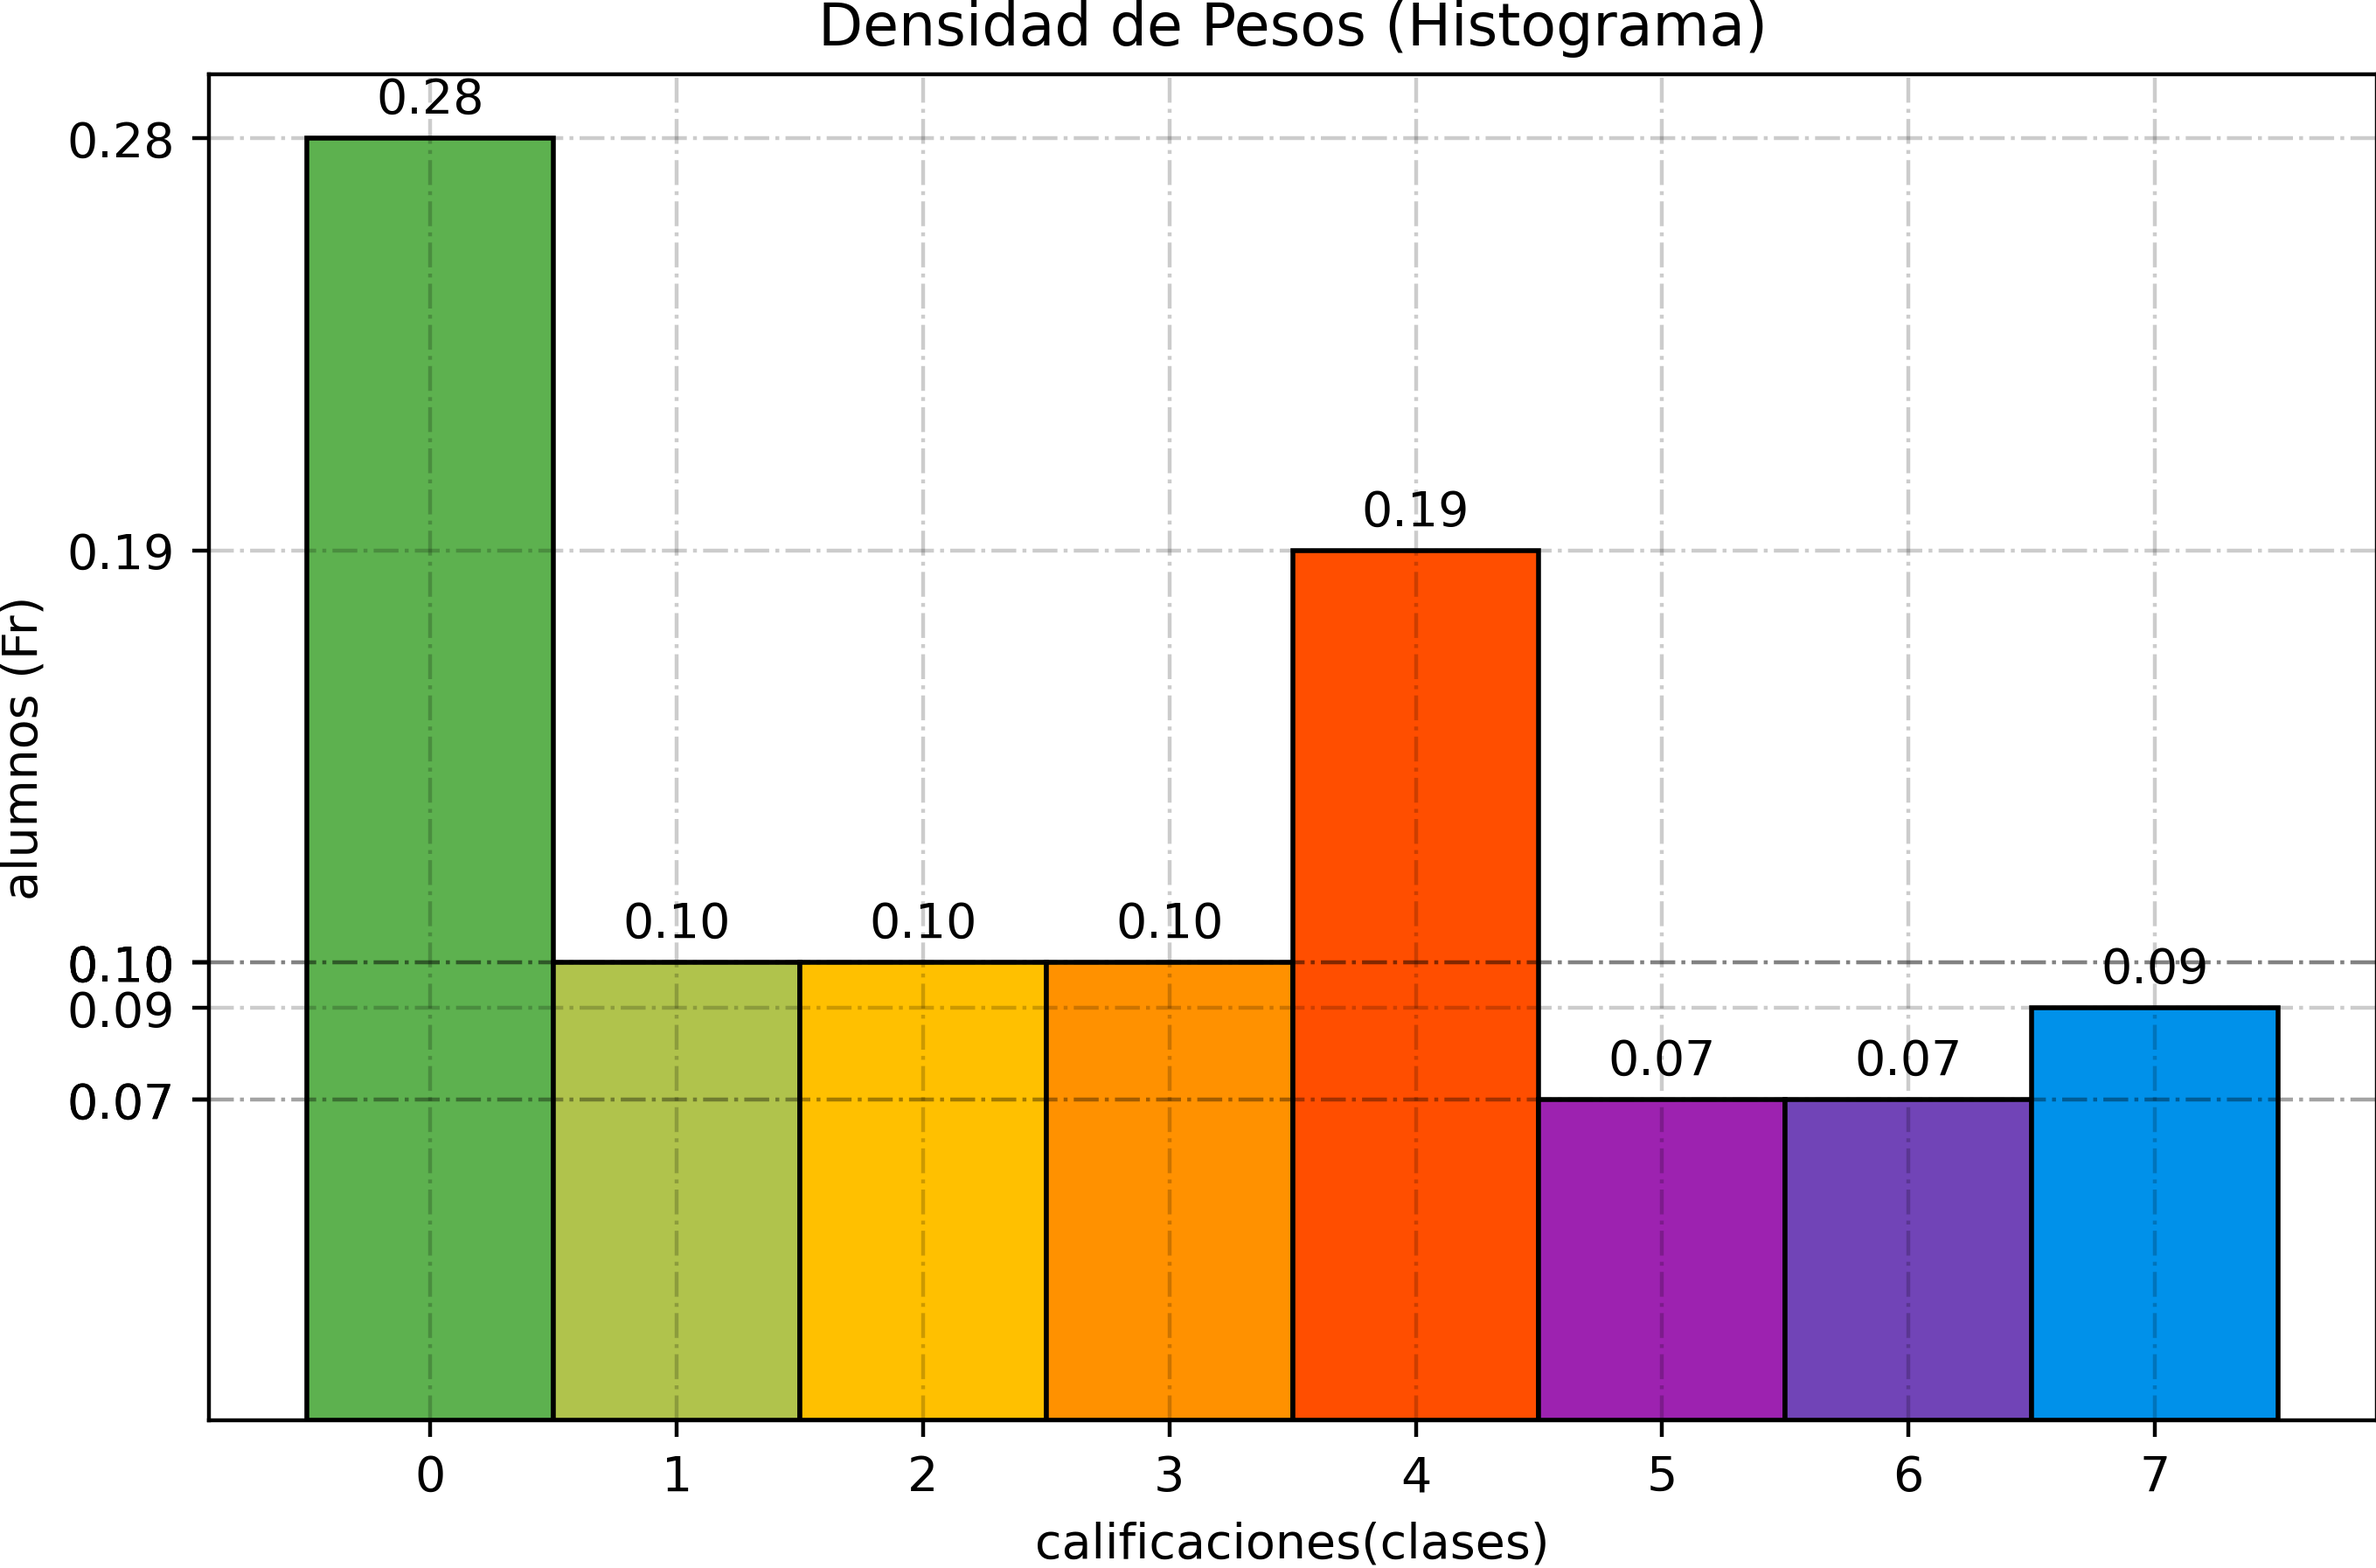
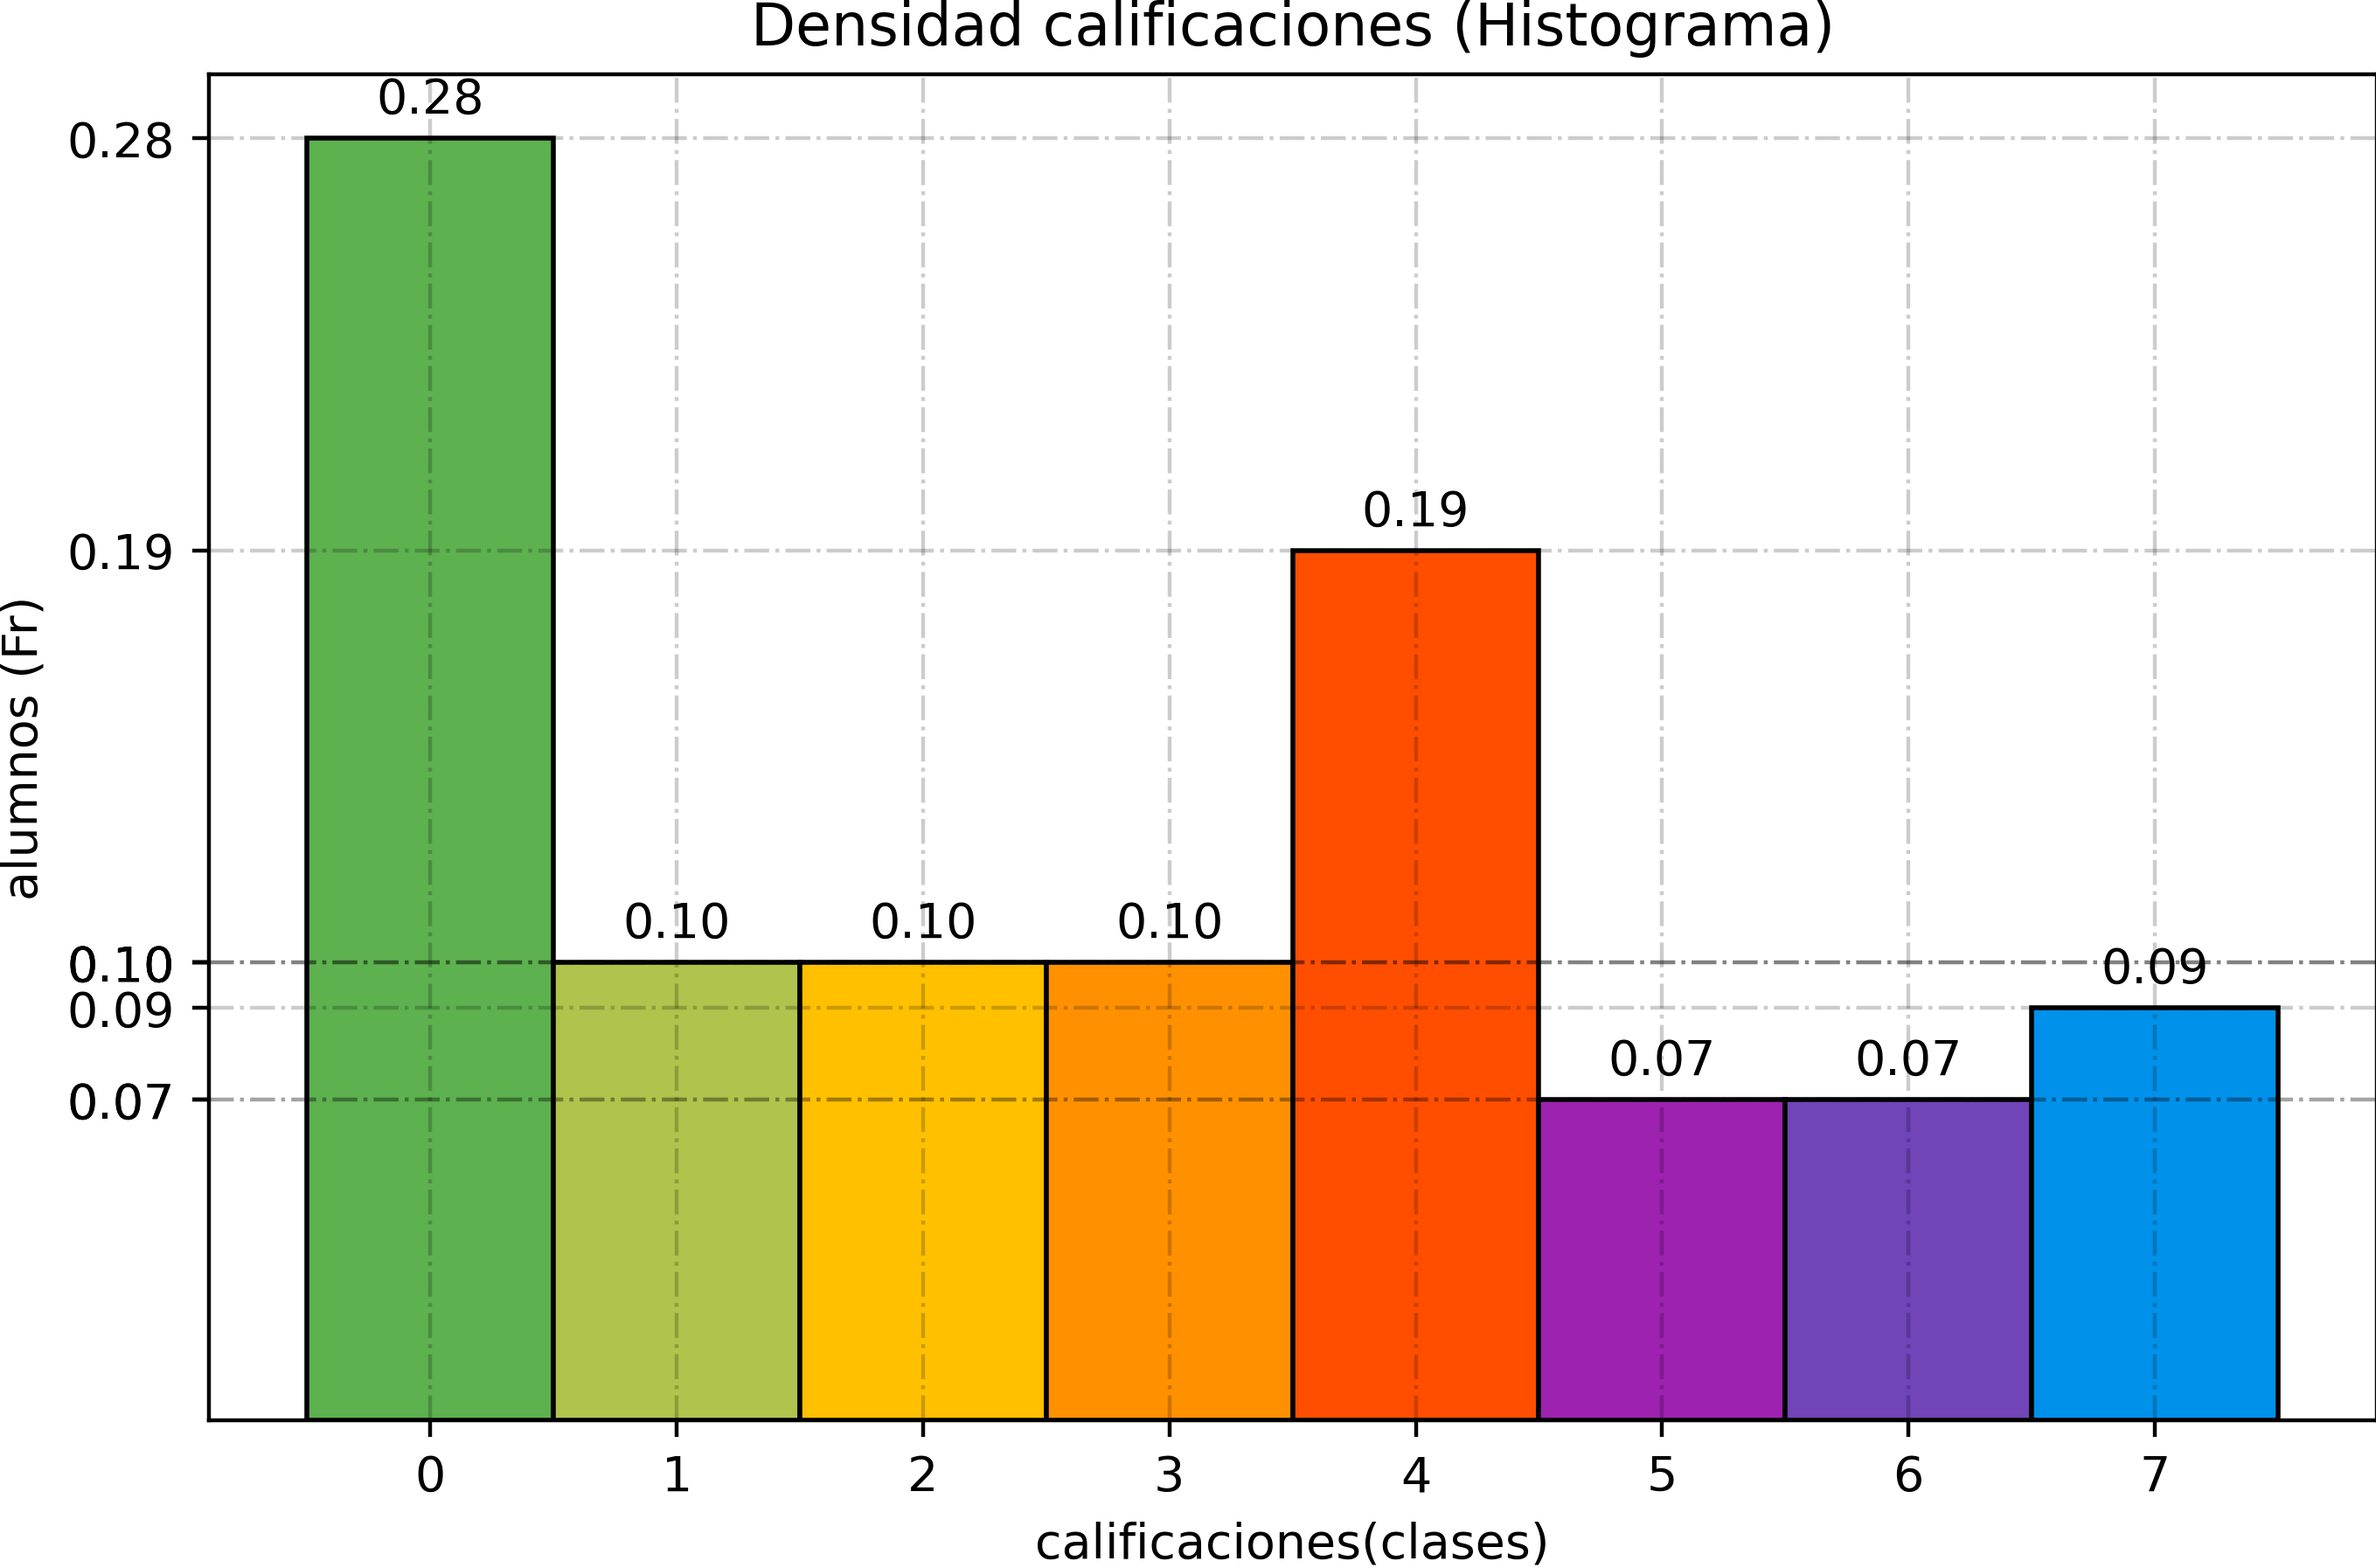
Actualización de imágenes en el proyecto - Miguel Galea López-250110028@itsoe.edu.mx

Changed region(s): [[0.3091, 0.0, 0.7726, 0.0312]]

diff --git a/index.html b/index.html
@@ -16,25 +16,25 @@
     <div class="contenido-texto">
          <h1>cuantitativo discretos</h1>
 
-        <p>Se entrevistó a cien personas  que llegaron a una consulta médica de rutina. A cada una se le preguntó directamente su peso actual en kilogramos, tal como lo habían medido en casa o en la misma consulta. Los datos se tomaron de forma voluntaria, sin pedir nombres ni identificaciones, solo para tener un panorama realista de cómo varía el peso en adultos que acuden a revisiones periódicas.</p>
+        <p>Se seleccionó una muestra aleatoria de 100 estudiantes que cursaron la asignatura de Estadística General para analizar su desempeño en el examen final. La evaluación fue calificada en una escala del 0 al 10, donde el objetivo principal era identificar las tendencias de aprendizaje y los niveles de reprobación tras la implementación de un nuevo modelo pedagógico.</p>
 
         <h2>Datos Ordenados</h2>
             <ul>
-                <li>49, 50, 50, 51, 51, 52, 52, 53, 53, 54</li>
-                <li>54, 54, 55, 55, 55, 55, 55, 56, 56, 56</li>
-                <li>56, 57, 57, 57, 58, 58, 58, 59, 59, 59</li>
-                <li>59, 60, 60, 60, 60, 60, 61, 61, 61, 62</li>
-                <li>62, 62, 62, 63, 63, 63, 64, 64, 64, 64</li>
-                <li>64, 65, 65, 65, 65, 66, 66, 66, 66, 67</li>
-                <li>67, 67, 67, 67, 68, 68, 68, 68, 68, 69</li>
-                <li>69, 69, 69, 69, 69, 70, 70, 70, 70, 70</li>
-                <li>71, 71, 71, 71, 71, 71, 72, 72, 72, 72</li>
-                <li>73, 73, 73, 74, 74, 75, 75, 75, 75, 75</li>
-            </ul> 
-    <table>
+                <li>10, 10, 10, 10, 9, 9, 9, 9, 9, 8,</li>
+                <li>8, 8, 8, 8, 8, 8, 7, 7, 7, 7,</li>
+                <li>7, 7, 7, 6, 6, 6, 6, 6, 6, 6,</li>
+                <li>5, 5, 5, 5, 5, 5, 5, 5, 5, 5,</li>
+                <li>5, 5, 4, 4, 4, 4, 4, 4, 4, 4,</li>
+                <li>4, 4, 3, 3, 3, 3, 3, 3, 3, 3,</li>
+                <li>3, 3, 2, 2, 2, 2, 2, 2, 2, 2,</li>
+                <li>2, 2, 1, 1, 1, 1, 1, 1, 1, 1,</li>
+                <li>1, 1, 0, 0, 0, 0, 0, 0, 0, 0,</li>
+                <li>0, 0, 0, 0, 0, 0, 0, 0, 0, 0</li>
+            </ul>
+   <table>
     <thead>
         <tr>
-            <th colspan="4">TABLA DE FRECUENCIA CUANTITATIVA DISCRETA</th>
+            <th colspan="4">TABLA DE FRECUENCIA CUANTITATIVA DISCRETA (DATOS DE IMAGEN)</th>
         </tr>
         <tr>
             <th>clase</th>
@@ -42,62 +42,61 @@
             <th>fr</th>
             <th>fa_acum</th>
         </tr>
-    
+    </thead>
     <tbody>
         <tr>
             <td>0</td>
-            <td>7</td>
-            <td>0.07</td>
-            <td>0.7</td>
+            <td>28</td>
+            <td>0.28</td>
+            <td>0.28</td>
         </tr>
         <tr>
             <td>1</td>
             <td>10</td>
             <td>0.10</td>
-            <td>0.17</td>
+            <td>0.38</td>
         </tr>
         <tr>
             <td>2</td>
             <td>10</td>
             <td>0.10</td>
-            <td>0.27</td>
+            <td>0.48</td>
         </tr>
         <tr>
             <td>3</td>
-            <td>12</td>
-            <td>0.12</td>
-            <td>0.39</td>
+            <td>10</td>
+            <td>0.10</td>
+            <td>0.58</td>
         </tr>
         <tr>
             <td>4</td>
-            <td>16</td>
-            <td>0.16</td>
-            <td>0.55</td>
+            <td>19</td>
+            <td>0.19</td>
+            <td>0.77</td>
         </tr>
         <tr>
             <td>5</td>
-            <td>14</td>
-            <td>0.14</td>
-            <td>0.69</td>
+            <td>7</td>
+            <td>0.07</td>
+            <td>0.84</td>
         </tr>
         <tr>
             <td>6</td>
-            <td>17</td>
-            <td>0.17</td>
-            <td>0.86</td>
+            <td>7</td>
+            <td>0.07</td>
+            <td>0.91</td>
         </tr>
         <tr>
             <td>7</td>
-            <td>14</td>
-            <td>0.14</td>
-            <td>1.0</td>
+            <td>9</td>
+            <td>0.09</td>
+            <td>1.00</td>
         </tr>
     </tbody>
-    </thead>
-    </table> 
+</table>
             <div class="cuadro-resumen">
                 <h3>La interpretación verbal de la tabla de frecuencias</h3>
-                <p>De los 100 adultos entrevistados en la consulta médica, se observa que el rango de peso con mayor frecuencia se encuentra en la clase 6, donde 17 personas registraron sus pesos más altos. Asimismo, las clases 4, 5 y 7 muestran una concentración importante con 16 y 14 personas respectivamente, lo que indica que más de la mitad de la muestra se sitúa en la mitad superior de la tabla. Por el contrario, la menor cantidad de personas se registró en la clase inicial con solo 7 individuos, marcando el punto de partida de la distribución del peso en este grupo de pacientes.</p>
+                <p>De los 100 alumnos que analizamos, la cosa está bastante dispareja porque la gran mayoría se concentró en los valores más bajos. Resulta que el grupo más fuerte, con 28 personas, sacó un rotundo 0, lo que ya te va diciendo que el desempeño general o la medida que estamos viendo anda por los suelos. Después tenemos un bloque muy plano donde 10 alumnos sacaron 1, otros 10 sacaron 2 y otros 10 sacaron 3, sumando 30 personas que se quedaron en la parte baja-media de la tabla.</p>
             </div>   
     </div>
     <div class="grupo-imagenes">
